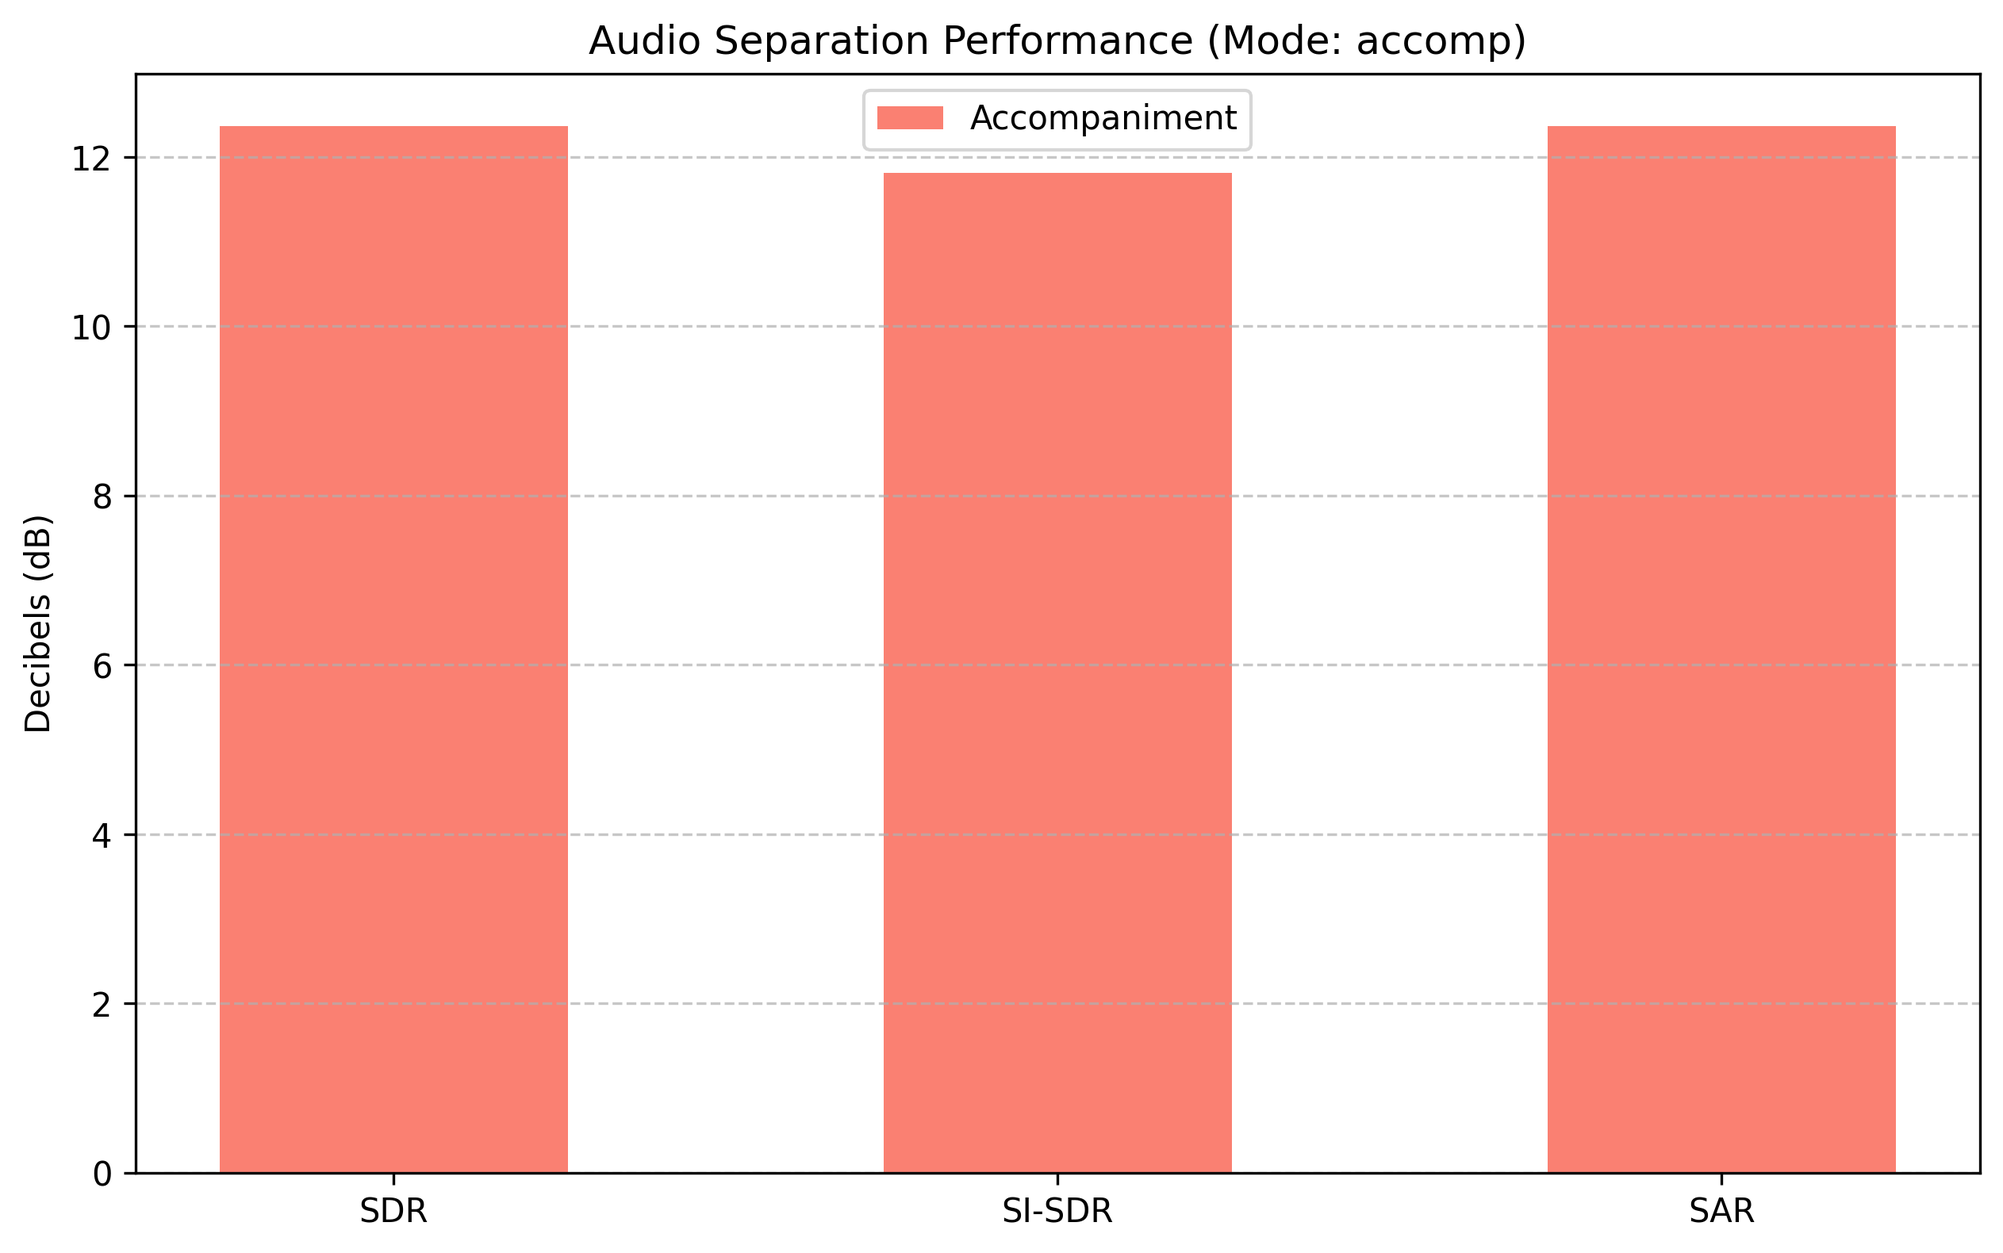
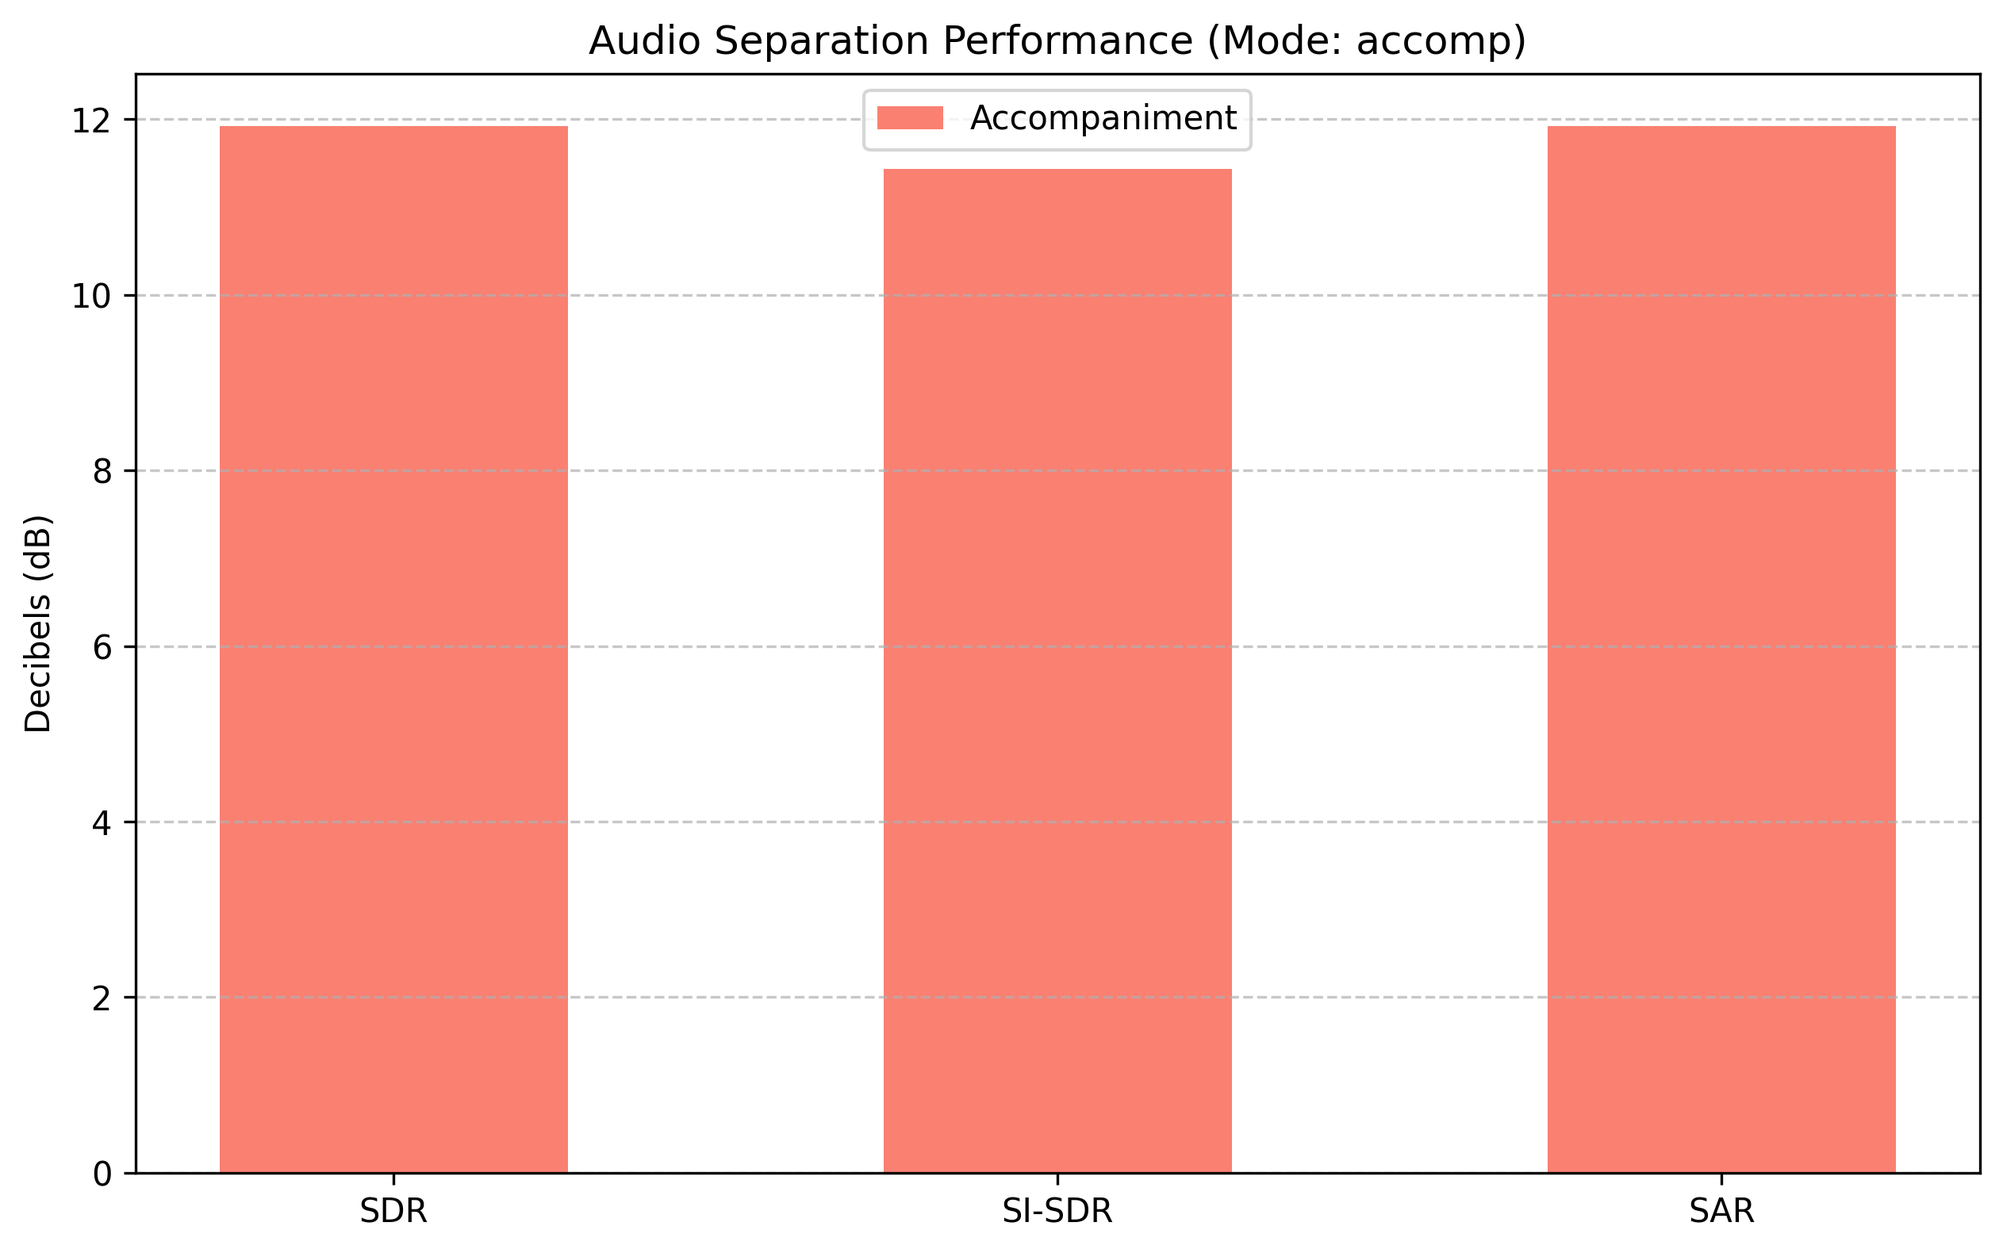
將任務焦點從伴奏切換到旋律
將程式碼庫從伴奏/多工設定遷移到以旋律為中心的單工工作流程。主要變化：將分析模式設為「旋律」並添加特定於旋律的報告/圖表檔案；更新 Predict.py 以使用 mel-task 檢查點和輸出目錄，並在沒有 MIDI提示的情況下呼叫模型；修改tools/turn_STFT_dataset.py以刪除MIDI提示生成，僅返回波形+2通道目標（旋律、伴奏）並修復填充/重試形狀；更新train.py以使用mel-task檢查點目錄，調整資料載入器解包和模型輸出，並交換旋律/伴奏損失權重； midi_hints），反轉掩碼邏輯以預測伴奏遮罩並計算旋律輸出，並返回輔助損失的預測伴奏規範；調整 utils/loss.py 將旋律作為主要目標，反轉相似性懲罰方向，並更新 SI-SDR 目標通道。也要更新separation_report和圖像，並將許多條目附加到bad_files.txt。

diff --git a/utils/loss.py b/utils/loss.py
@@ -25,58 +25,57 @@ class AudioSeparationLoss(nn.Module):
         
         self.l1_loss = nn.L1Loss()
         
-    def forward(self, pred, target, pred_audio=None, target_audio=None, pred_mel=None):
+    def forward(self, pred, target, pred_audio=None, target_audio=None, pred_other=None):
         """
         Args:
-            pred: [B, 1, F, T] 預測的伴奏頻譜圖
-            target: [B, 4, F, T] 目標頻譜圖 (0: 旋律, 1: 伴奏)
-            pred_audio: [B, 1, L] 預測的伴奏時域音訊
+            pred: [B, 1, F, T] 預測的旋律頻譜圖 (Melody)
+            target: [B, 2, F, T] 目標頻譜圖 (0: 旋律, 1: 伴奏)
+            pred_audio: [B, 1, L] 預測的旋律時域音訊
             target_audio: [B, 2, L] 目標音訊 (0: 旋律, 1: 伴奏)
-            pred_mel: [B, 1, F, T] 預測的旋律頻譜圖 (被扣除的部分)
+            pred_other: [B, 1, F, T] 預測的伴奏頻譜圖 (被扣除的部分)
         """
         
         # --- 通道提取 ---
-        pred_acc = pred[:, 0, :, :]
-        target_acc = target[:, 1, :, :] 
+        pred_mel = pred[:, 0, :, :]
         target_mel = target[:, 0, :, :] 
+        target_acc = target[:, 1, :, :] 
         
-        # 1. 伴奏基礎擬合 Loss
-        l1_loss_acc = self.l1_loss(pred_acc, target_acc) * self.accomp_weight
-        spec_loss_acc = self.multi_scale_spectral_loss(pred_acc, target_acc) * self.accomp_weight
+        # 1. 旋律基礎擬合 Loss
+        l1_loss_mel = self.l1_loss(pred_mel, target_mel) * self.melody_weight
+        spec_loss_mel = self.multi_scale_spectral_loss(pred_mel, target_mel) * self.melody_weight
         
-        # 2. 旋律參考約束 (確保扣掉的東西確實像旋律)
-        if pred_mel is not None:
-            l1_loss_mel = self.l1_loss(pred_mel[:, 0], target_mel) * self.melody_weight
+        # 2. 伴奏參考約束 (確保扣掉的東西確實像伴奏)
+        if pred_other is not None:
+            l1_loss_acc = self.l1_loss(pred_other[:, 0], target_acc) * self.accomp_weight
         else:
-            l1_loss_mel = torch.tensor(0.0, device=pred.device)
+            l1_loss_acc = torch.tensor(0.0, device=pred.device)
             
-        # 3. 旋律-伴奏相似度懲罰 (Similarity Penalty)
-        # 我們希望預測的伴奏 (pred_acc) 與真實的旋律 (target_mel) 越不相似越好
-        p_acc_flat = pred_acc.reshape(pred_acc.size(0), -1)
-        t_mel_flat = target_mel.reshape(target_mel.size(0), -1)
+        # 3. 伴奏-旋律相似度懲罰 (Similarity Penalty)
+        # 我們希望預測的旋律 (pred_mel) 與真實的伴奏 (target_acc) 越不相似越好
+        p_mel_flat = pred_mel.reshape(pred_mel.size(0), -1)
+        t_acc_flat = target_acc.reshape(target_acc.size(0), -1)
         
-        # 使用餘弦相似度，只處罰正相關 (即伴奏裡有旋律殘留)
-        # 加上 1e-8 防止除以零
-        sim = F.cosine_similarity(p_acc_flat, t_mel_flat, dim=1).mean()
+        # 使用餘弦相似度，只處罰正相關 (即旋律裡有伴奏殘留)
+        sim = F.cosine_similarity(p_mel_flat, t_acc_flat, dim=1).mean()
         sim_loss = torch.clamp(sim, min=0.0) * self.alpha_similarity
 
-        # 4. SI-SDR Loss
+        # 4. SI-SDR Loss (針對旋律)
         if pred_audio is not None and target_audio is not None:
-            sisdr_loss = self.si_sdr_loss(pred_audio[:, 0], target_audio[:, 1]) * self.accomp_weight
+            sisdr_loss = self.si_sdr_loss(pred_audio[:, 0], target_audio[:, 0]) * self.melody_weight
         else:
             sisdr_loss = torch.tensor(0.0, device=pred.device)
         
         # 總 Loss 計算
-        total_loss = (self.alpha_l1 * l1_loss_acc + 
-                     self.alpha_spectral * spec_loss_acc + 
+        total_loss = (self.alpha_l1 * l1_loss_mel + 
+                     self.alpha_spectral * spec_loss_mel + 
                      self.alpha_sisdr * sisdr_loss +
-                     l1_loss_mel +
+                     l1_loss_acc +
                      sim_loss)
         
         loss_dict = {
             'total': total_loss.item(),
-            'l1_acc': l1_loss_acc.item(),
-            'mel_ref': l1_loss_mel.item(),
+            'l1_mel': l1_loss_mel.item(),
+            'acc_ref': l1_loss_acc.item(),
             'sim_penalty': sim_loss.item(),
             'sisdr': sisdr_loss.item()
         }

diff --git a/tools/turn_STFT_dataset.py b/tools/turn_STFT_dataset.py
@@ -100,10 +100,10 @@ class AudioDataset(Dataset):
             return torch.zeros((1, CONFIG["TARGET_BINS"], num_frames), dtype=torch.float32)
     def load_with_retry(self, idx, retry_count):
         if retry_count > 5:
-            # 失敗 fallback: 回傳全零張量 (352 是 16 的倍數，安全)
+            # 失敗 fallback: 回傳 3 個張量
             return torch.zeros(CONFIG["CHUNK_SIZE"]), \
                 torch.zeros((2, CONFIG["TARGET_BINS"], 352)), \
-                torch.zeros((4, CONFIG["TARGET_BINS"], 352))
+                torch.zeros((2, CONFIG["CHUNK_SIZE"]))
 
         orig_path = self.data_list[idx]
         fname = os.path.basename(orig_path)
@@ -112,10 +112,6 @@ class AudioDataset(Dataset):
             mel_audio_path = orig_path.replace(CONFIG["DIR_MIX"], CONFIG["DIR_MELODY"]).replace(CONFIG["EXT_MIX"], CONFIG["EXT_MELODY"])
             acc_audio_path = orig_path.replace(CONFIG["DIR_MIX"], CONFIG["DIR_ACCOMP"]).replace(CONFIG["EXT_MIX"], CONFIG["EXT_ACCOMP"])
             
-            midi_fname = fname.replace(CONFIG["EXT_MIX"], CONFIG["EXT_MIDI"])
-            midi_path_mel = os.path.join(CONFIG["MIDI_ROOT"], CONFIG["MIDI_SUB_MEL"], midi_fname)
-            midi_path_acc = os.path.join(CONFIG["MIDI_ROOT"], CONFIG["MIDI_SUB_ACC"], midi_fname)
-
             self._validate_file(orig_path)
             total_duration = librosa.get_duration(path=orig_path)
             start_time = np.random.uniform(0, max(0, total_duration - CONFIG["DURATION"]))
@@ -127,39 +123,24 @@ class AudioDataset(Dataset):
             # 2. 準備目標答案
             wav_mel, _ = librosa.load(mel_audio_path, sr=CONFIG["SAMPLE_RATE"], offset=start_time, duration=CONFIG["DURATION"])
             wav_acc, _ = librosa.load(acc_audio_path, sr=CONFIG["SAMPLE_RATE"], offset=start_time, duration=CONFIG["DURATION"])
-            spec_mel = self.wav_to_spec(librosa.util.fix_length(wav_mel, size=CONFIG["CHUNK_SIZE"]))
-            spec_acc = self.wav_to_spec(librosa.util.fix_length(wav_acc, size=CONFIG["CHUNK_SIZE"]))
-            num_frames = spec_mel.shape[2]
             
-            # 3. 產生 MIDI 遮罩
-            mask_mel = self._generate_midi_mask(midi_path_mel, start_time, num_frames)
-            mask_acc = self._generate_midi_mask(midi_path_acc, start_time, num_frames)
+            # 確保擷取後的波形長度完美對齊
+            wav_mel = librosa.util.fix_length(wav_mel, size=CONFIG["CHUNK_SIZE"])
+            wav_acc = librosa.util.fix_length(wav_acc, size=CONFIG["CHUNK_SIZE"])
             
-            # 4. 產生獨立的輸入提示 (獨立 Dropout)
-            hint_mel = torch.zeros_like(mask_mel)
-            hint_acc = torch.zeros_like(mask_acc)
+            spec_mel = self.wav_to_spec(wav_mel)
+            spec_acc = self.wav_to_spec(wav_acc)
             
-            if self.split == "train":
-                if random.random() > CONFIG["PROB_DROP_MELODY_HINT"]:
-                    hint_mel = mask_mel
-                if random.random() > CONFIG["PROB_DROP_ACCOMP_HINT"]:
-                    hint_acc = mask_acc
-            else:
-                hint_mel, hint_acc = mask_mel, mask_acc
+            # 3. 組合答案: 僅保留 2 通道 [Audio_Mel, Audio_Acc]
+            target = torch.cat([spec_mel, spec_acc], dim=0)
             
-            # 合併為 2 通道提示: (2, F, T)
-            midi_hints = torch.cat([hint_mel, hint_acc], dim=0)
-            
-            # 5. 組合 4 通道答案: [Audio_Mel, Audio_Acc, MIDI_Mel, MIDI_Acc]
-            target = torch.cat([spec_mel, spec_acc, mask_mel, mask_acc], dim=0)
-            
-            # 6. 組合目標時域音訊供 SI-SDR 使用: [Melody_Wav, Accomp_Wav]
+            # 4. 組合目標時域音訊供 SI-SDR 使用: [Melody_Wav, Accomp_Wav]
             target_audios = torch.cat([
                 torch.from_numpy(wav_mel).unsqueeze(0),
                 torch.from_numpy(wav_acc).unsqueeze(0)
             ], dim=0)
             
-            return torch.from_numpy(wav_orig), midi_hints, target, target_audios
+            return torch.from_numpy(wav_orig), target, target_audios
 
         except Exception as e:
             self._log_error(f"{fname} | {str(e)}")

diff --git a/train.py b/train.py
@@ -18,7 +18,7 @@ from utils.loss import AudioSeparationLoss
 # ==========================================
 # 1. 資料與儲存設定
 CSV_FILE = "classical_dataset.csv" 
-CHECKPOINT_DIR = "./checkpoints_multi_task"
+CHECKPOINT_DIR = "./checkpoints_mel_task"
 RESUME_BEST = False  # 是否繼承目前最佳權重
 RESUME_FROM = os.path.join(CHECKPOINT_DIR, "best_model.pth")
 
@@ -40,9 +40,9 @@ N_CLASSES = 1        # 輸出通道: 1 代表模型輸出旋律遮罩
 ALPHA_L1 = 3.0
 ALPHA_SPECTRAL = 2.0
 ALPHA_SISDR = 5.0 
-ALPHA_SIMILARITY = 5.0 # 旋律/伴奏互斥相似度權重 (處罰伴奏中的旋律殘留)
-MELODY_WEIGHT = 1.0    # 被扣除部分的參考權重
-ACCOMP_WEIGHT = 7.5    # 伴奏擬合權重
+ALPHA_SIMILARITY = 5.0 # 伴奏/旋律互斥相似度權重 (處罰旋律中的伴奏殘留)
+MELODY_WEIGHT = 7.5    # 旋律擬合權重 (現在是主要目標)
+ACCOMP_WEIGHT = 1.0    # 被扣除伴奏部分的參考權重
 
 # 5. 其他設定
 PRINT_FREQ = 20      # 每 20 個 batch 輸出一次進度
@@ -159,23 +159,23 @@ def main():
         model.train()
         train_loss_accum = 0
 
-        for batch_idx, (waveforms, midi_hints, targets, target_audios) in enumerate(train_loader):
+        for batch_idx, (waveforms, targets, target_audios) in enumerate(train_loader):
             waveforms = waveforms.to(device)
             targets = targets.to(device)
             target_audios = target_audios.to(device)
 
             optimizer.zero_grad()
-            # 模型現在回傳: pred_acc, pred_acc_audio, pred_mel_spec
-            predictions, pred_audios, pred_mels = model(waveforms, return_audio=True)
+            # 模型現在回傳: pred_mel, pred_mel_audio, pred_acc_spec
+            predictions, pred_audios, pred_others = model(waveforms, return_audio=True)
             
             if predictions.shape[3] != targets.shape[3]:
                 min_time = min(predictions.shape[3], targets.shape[3])
                 predictions = predictions[:, :, :, :min_time]
                 targets = targets[:, :, :, :min_time]
-                pred_mels = pred_mels[:, :, :, :min_time]
+                pred_others = pred_others[:, :, :, :min_time]
 
             # 傳入所有輔助項進行 Loss 計算
-            loss, _ = criterion(predictions, targets, pred_audio=pred_audios, target_audio=target_audios, pred_mel=pred_mels)
+            loss, _ = criterion(predictions, targets, pred_audio=pred_audios, target_audio=target_audios, pred_other=pred_others)
             
             if torch.isnan(loss):
                 print(f"⚠ 警告: 第 {epoch+1} 輪 Batch {batch_idx} 偵測到 NaN Loss，正在跳過...")
@@ -199,20 +199,20 @@ def main():
         model.eval()
         val_loss_accum = 0
         with torch.no_grad():
-            for waveforms, midi_hints, targets, target_audios in val_loader:
+            for waveforms, targets, target_audios in val_loader:
                 waveforms = waveforms.to(device)
                 targets = targets.to(device)
                 target_audios = target_audios.to(device)
                 
-                predictions, pred_audios, pred_mels = model(waveforms, return_audio=True)
+                predictions, pred_audios, pred_others = model(waveforms, return_audio=True)
                 
                 if predictions.shape[3] != targets.shape[3]:
                     min_time = min(predictions.shape[3], targets.shape[3])
                     predictions = predictions[:, :, :, :min_time]
                     targets = targets[:, :, :, :min_time]
-                    pred_mels = pred_mels[:, :, :, :min_time]
+                    pred_others = pred_others[:, :, :, :min_time]
                     
-                loss, _ = criterion(predictions, targets, pred_audio=pred_audios, target_audio=target_audios, pred_mel=pred_mels)
+                loss, _ = criterion(predictions, targets, pred_audio=pred_audios, target_audio=target_audios, pred_other=pred_others)
                 
                 if not torch.isnan(loss):
                     val_loss_accum += loss.item()

diff --git a/utils/u_net.py b/utils/u_net.py
@@ -55,7 +55,7 @@ class AudioUNet(nn.Module):
 
         self.outc = nn.Conv2d(16, n_classes, kernel_size=1)
 
-    def forward(self, waveform, midi_hints=None, return_audio=False):
+    def forward(self, waveform, return_audio=False):
         # 1. GPU STFT 轉換
         stft = torch.stft(waveform, n_fft=self.n_fft, hop_length=self.hop_length, 
                           window=self.window, center=True, return_complex=True)
@@ -107,17 +107,18 @@ class AudioUNet(nn.Module):
         
         logits = self.outc(u4) 
         
-        # ✨ [旋律扣除模式]：預測旋律遮罩，扣除後得到伴奏
-        mel_mask = torch.sigmoid(logits)
-        acc_mask = 1.0 - mel_mask
+        # ✨ [伴奏扣除模式]：預測伴奏遮罩，扣除後得到旋律
+        # (邏輯與原先生成伴奏時對稱)
+        acc_mask = torch.sigmoid(logits)
+        mel_mask = 1.0 - acc_mask
         
-        # 伴奏頻譜 = 混合音譜 * 伴奏遮罩
-        mapped_spec = x[:, :1, :, :] * acc_mask
+        # 旋律頻譜 = 混合音譜 * 旋律遮罩
+        mapped_spec = x[:, :1, :, :] * mel_mask
         
         # 4. 還原 Padding
         if pad_t > 0:
             mapped_spec = mapped_spec[:, :, :, :T]
-            mel_mask = mel_mask[:, :, :, :T]
+            acc_mask = acc_mask[:, :, :, :T]
             
         # 5. SI-SDR 支援
         if return_audio:
@@ -125,7 +126,7 @@ class AudioUNet(nn.Module):
             if phase.shape[2] > mapped_spec.shape[2]:
                 phase = phase[:, :mapped_spec.shape[2], :mapped_spec.shape[3]]
                 
-            # 逆正規化
+            # 逆正規化 (針對旋律)
             log_mapped = (mapped_spec * 10.0) - 10.0
             mag_mapped = torch.exp(log_mapped)
             
@@ -136,8 +137,8 @@ class AudioUNet(nn.Module):
             pred_audio = torch.istft(recon_complex, n_fft=self.n_fft, hop_length=self.hop_length, 
                                      window=self.window, center=True, length=waveform.shape[-1])
             
-            # 計算被扣除的旋律頻譜，用於 Loss 計算
-            pred_mel_spec = x_norm * mel_mask
-            return mapped_spec, pred_audio.unsqueeze(1), pred_mel_spec
+            # 計算被扣除的伴奏頻譜，用於 Loss 計算
+            pred_acc_spec = x_norm[:, :, :, :T] * acc_mask
+            return mapped_spec, pred_audio.unsqueeze(1), pred_acc_spec
         
         return mapped_spec

diff --git a/analyze_results.py b/analyze_results.py
@@ -12,18 +12,18 @@ from mir_eval.separation import bss_eval_sources
 # ==========================================
 # --- 配置區塊 (在此修改參數) ---
 # ==========================================
-MODE = "accomp"               # 分析模式: "melody", "accomp", "both"
-SAVE_CHART = "evaluation_chart.png"
-REPORT_PATH = "separation_report.csv"
+MODE = "melody"               # 分析模式: "melody", "accomp", "both"
+SAVE_CHART = "melody_evaluation_chart.png"
+REPORT_PATH = "melody_separation_report.csv"
 SAMPLE_RATE = 44100
 
 # ✨ 手動設定要顯示在圖表上的指標 (可選: "SDR", "SI-SDR", "SIR", "SAR")
-# 例如只想看 SDR 和 SI-SDR，就改為 ["SDR", "SI-SDR"]
 VISIBLE_METRICS = ["SDR", "SI-SDR", "SAR"]
 
 # 預估 (Prediction) 檔案路徑
-PRED_MELODY_PATH = r"F:\專題\piano-mir-melody-separation\results_accomp\melody_no_hint.wav"
-PRED_ACCOMP_PATH = r"F:\專題\piano-mir-melody-separation\results_accomp\accompaniment_no_hint.wav"
+# 注意：目前的 predict.py 輸出檔名雖然叫 accompaniment_no_hint.wav，但模型實際上是在生成旋律
+PRED_MELODY_PATH = r"F:\專題\piano-mir-melody-separation\results_mel_task\accompaniment_no_hint.wav"
+PRED_ACCOMP_PATH = None
 
 # 真值 (Ground Truth) 檔案路徑
 GT_MELODY_PATH = r"G:\project_data\two_line_midi\flac_output\melody_audio_flac\Classical_Classical_John Philip Sousa_Hands Across the Sea_melody.flac"

diff --git a/predict.py b/predict.py
@@ -9,9 +9,9 @@ from utils.u_net import AudioUNet
 #               參數設定
 # ==========================================
 # 1. 路徑設定
-MODEL_PATH = "./checkpoints_multi_task/best_model.pth"
+MODEL_PATH = "./checkpoints_mel_task/best_model.pth"
 INPUT_AUDIO = r"G:\project_data\two_line_midi\flac_output\mix_audio_flac\Classical_Classical_John Philip Sousa_Hands Across the Sea_mixed.flac"
-OUTPUT_DIR = "./results_accomp"
+OUTPUT_DIR = "./results_mel_task"
 OUTPUT_FILENAME = "accompaniment_no_hint.wav"
 
 # 2. 推論設定
@@ -71,11 +71,11 @@ def main():
     num_frames = len(y) // HOP_LENGTH + 1
     midi_hints = torch.zeros((1, 2, TARGET_BINS, num_frames), dtype=torch.float32).to(device)
 
-    # 5. 推論
+    # 4. 推論
     print("正在進行分離運算 (譜映射生成模式)...")
     with torch.no_grad():
         # 取得模型生成的頻譜 [1, 1, 1024, T]
-        mapped_spec = model(waveform_tensor, midi_hints).cpu().numpy()[0, 0]
+        mapped_spec = model(waveform_tensor).cpu().numpy()[0, 0]
         
     print(f"DEBUG: 模型輸出最大值: {mapped_spec.max():.4f}, 最小值: {mapped_spec.min():.4f}")
     if mapped_spec.max() < 1e-3:
